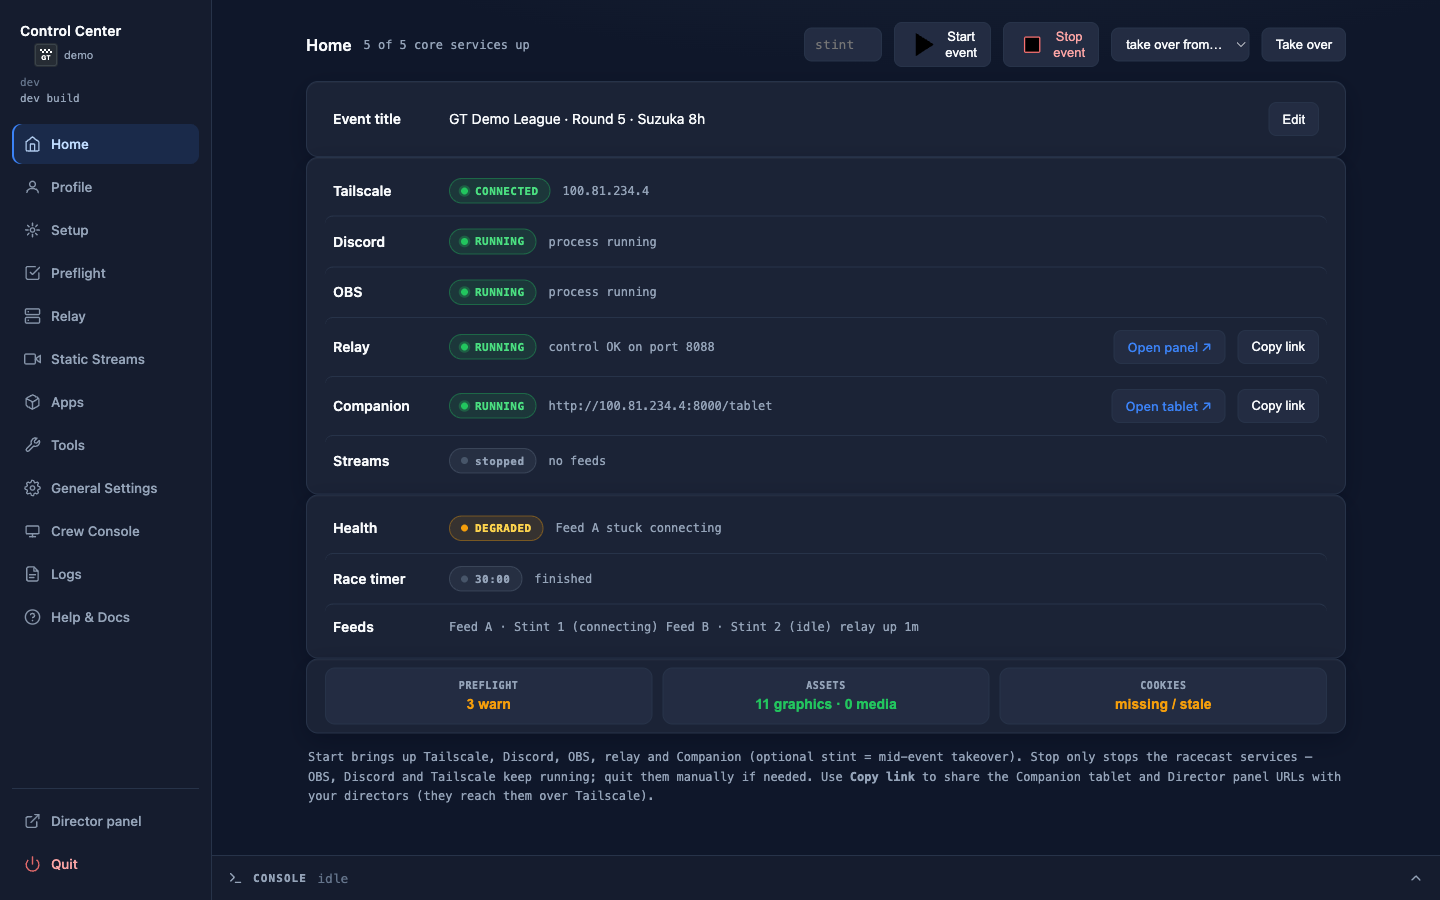
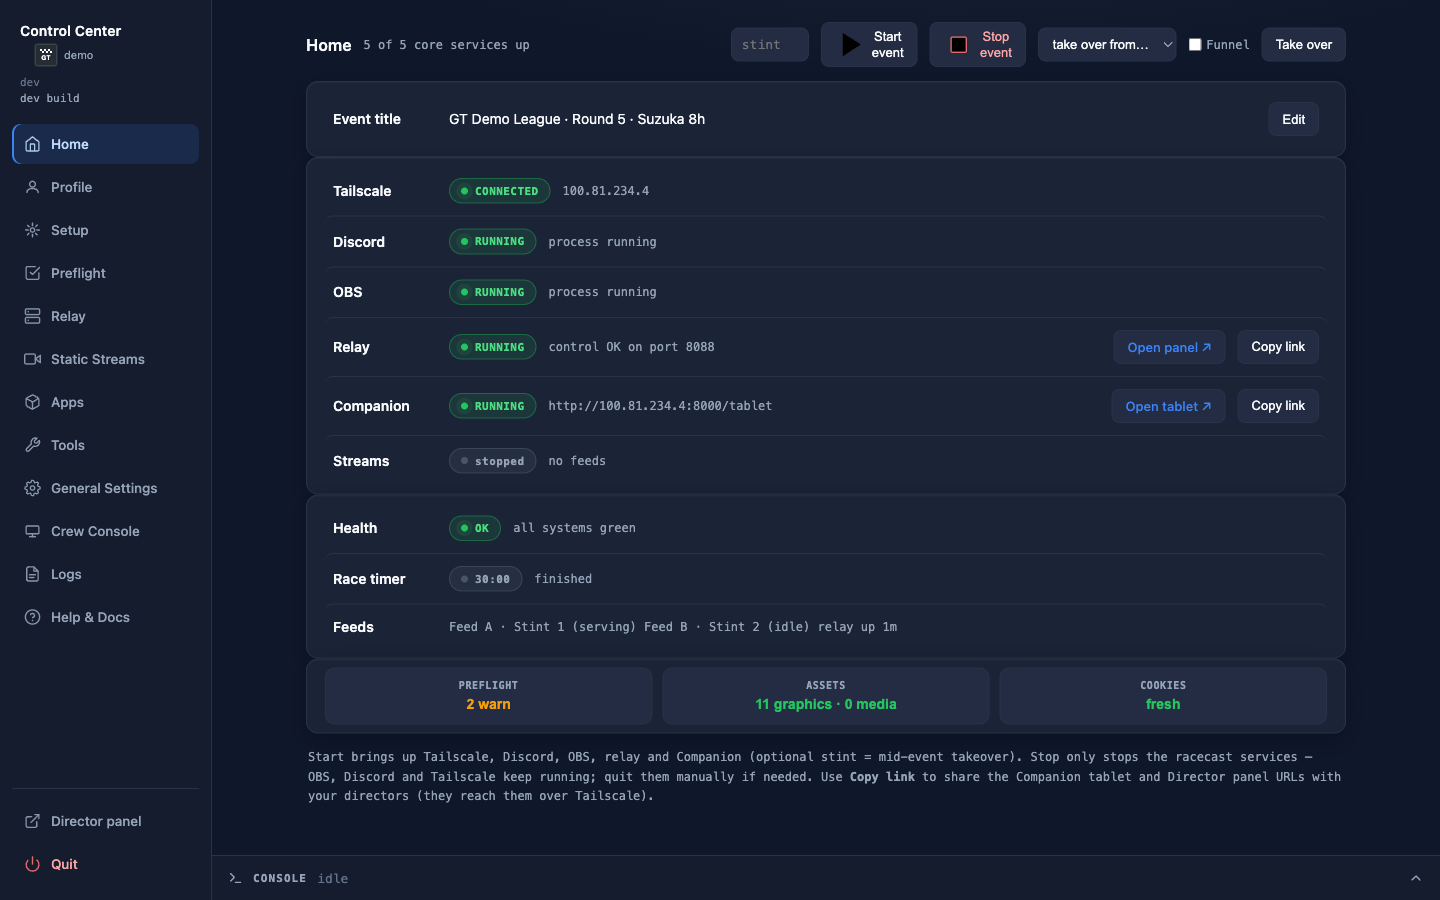
feat(ui): Funnel takeover toggle on the Control Center Home
Producer takeover over the public Tailscale Funnel was CLI-only
(`racecast event takeover <magicdns-host> --funnel`); the Control Center
only offered the tailnet path. This adds a "Funnel" checkbox to the Home
takeover control: when on, the tailnet-peer dropdown is swapped for a
free-text MagicDNS-host field (producer B is not on A's tailnet) and the
event-takeover op gains a `--funnel` flag.

The per-league CONSOLE_SECRET step-up is read server-side from B's active
profile by the CLI (_active_console_secret) — it is never collected or
sent from the browser, so the master signing key stays off the public
surface. The MagicDNS host is charset-locked by the same validator as the
tailnet IP (no argv injection).

- ui_ops: `_funnel_flag` validator + `funnel` param on event-takeover
  (argv order: host, --funnel, --stint)
- control-center: Funnel checkbox + MagicDNS host input + toggle/opTakeover JS
- test_ui_ops: --funnel argv build + host validation
- refresh cc-home.png (wiki + slides) showing the new control

diff --git a/src/ui/control-center.html b/src/ui/control-center.html
@@ -75,6 +75,9 @@
                  margin:0; color:var(--txt); text-transform:none; }
   .viewhead h3 { font-size:13px; font-weight:600; margin:0; color:var(--txt); }
   .viewhead .sub { color:var(--dim); font:12px var(--mono); }
+  .fnltog { display:flex; align-items:center; gap:5px; color:var(--dim);
+            font:12px var(--mono); cursor:pointer; user-select:none; white-space:nowrap; }
+  .fnltog input { margin:0; cursor:pointer; }
   section { background:var(--card); border:1px solid var(--line);
             border-radius:12px; padding:8px 18px;
             box-shadow:0 1px 0 rgba(255,255,255,.03) inset, 0 8px 24px rgba(2,6,23,.35); }
@@ -529,6 +532,12 @@
                   title="Pick the current producer's device (Tailscale) to take over from">
             <option value="">take over from…</option>
           </select>
+          <input id="takeover-funnel-host" type="text" hidden
+                 placeholder="producer MagicDNS host"
+                 aria-label="Producer's MagicDNS host to take over from over the public Funnel"
+                 title="A's MagicDNS host (e.g. producer-a.tailnet-xyz.ts.net) — used when you are not on the tailnet">
+          <label class="fnltog" title="Take over over the public Funnel (you are not on A's tailnet). Steps up with this league's CONSOLE_SECRET from your active profile — read locally, never sent from the browser.">
+            <input type="checkbox" id="takeover-funnel" onchange="toggleFunnelTakeover()">Funnel</label>
           <button id="takeover-btn" onclick="opTakeover()"
                   title="Take over the broadcast from the selected producer at their current stint (the stint field overrides if set)">Take over</button></div>
         <section id="home-event">
@@ -1709,11 +1718,28 @@ function opEventStart() {
   op('event-start', true, v ? {stint: v} : {});
 }
 
+// Funnel takeover: B is not on A's tailnet, so the peer dropdown is useless —
+// swap it for a free-text MagicDNS-host field. The CONSOLE_SECRET step-up is read
+// server-side from B's active profile by the CLI, never collected here.
+function toggleFunnelTakeover() {
+  const on = $('takeover-funnel').checked;
+  $('takeover-host').hidden = on;
+  $('takeover-funnel-host').hidden = !on;
+}
+
 function opTakeover() {
-  const host = $('takeover-host').value;
-  if (!host) { alertModal('Pick the producer to take over from (Tailscale device).'); return; }
+  const funnel = $('takeover-funnel').checked;
+  const host = (funnel ? $('takeover-funnel-host').value : $('takeover-host').value).trim();
+  if (!host) {
+    alertModal(funnel
+      ? "Enter producer A's MagicDNS host to take over over the Funnel."
+      : 'Pick the producer to take over from (Tailscale device).');
+    return;
+  }
   const v = $('stint').value.trim();
-  const params = v ? {ip: host, stint: v} : {ip: host};
+  const params = {ip: host};
+  if (funnel) params.funnel = true;
+  if (v) params.stint = v;
   op('event-takeover', true, params);
 }
 

diff --git a/tests/test_ui_ops.py b/tests/test_ui_ops.py
@@ -189,6 +189,27 @@ def t_build_argv_event_takeover():
             pass
 
 
+def t_build_argv_event_takeover_funnel():
+    # --funnel flag rides through to the CLI (the per-league CONSOLE_SECRET is
+    # read server-side from the active profile, never sent from the UI).
+    assert ui_ops.build_argv("event-takeover", {"ip": "host-a.tail.ts.net", "funnel": True}) == \
+        ["event", "takeover", "host-a.tail.ts.net", "--funnel"]
+    # funnel + stint: host positional first, then the two flags
+    assert ui_ops.build_argv(
+        "event-takeover", {"ip": "host-a.tail.ts.net", "funnel": True, "stint": "6"}) == \
+        ["event", "takeover", "host-a.tail.ts.net", "--funnel", "--stint", "6"]
+    # falsy funnel = tailnet takeover, no flag
+    assert ui_ops.build_argv("event-takeover", {"ip": "100.64.1.2", "funnel": False}) == \
+        ["event", "takeover", "100.64.1.2"]
+    # the MagicDNS host is charset-locked by the same validator as the tailnet IP
+    for bad in ("a.b; rm -rf /", "host a", "$(x)"):
+        try:
+            ui_ops.build_argv("event-takeover", {"ip": bad, "funnel": True})
+            raise AssertionError(f"invalid funnel host accepted: {bad}")
+        except ValueError:
+            pass
+
+
 def t_build_argv_update_flag():
     assert ui_ops.build_argv("install-tools", {"update": True}) == \
         ["install-tools", "--yes", "--update"]

diff --git a/src/ui/ui_ops.py b/src/ui/ui_ops.py
@@ -79,6 +79,14 @@ def _update_flag(value):
     return ["--update"] if value else []
 
 
+def _funnel_flag(value):
+    """`--funnel` switches `event takeover` to pull A's handover state over the
+    public Tailscale Funnel (host is A's MagicDNS name) instead of the tailnet IP.
+    The per-league CONSOLE_SECRET it steps up with is read server-side from the
+    active profile by the CLI — it is never collected or sent from the UI."""
+    return ["--funnel"] if value else []
+
+
 # The UI's `update` op only ever installs a PREVIEW build by tag (a regular
 # update sends no tag and goes to the latest release). Restricting the allowlist
 # to preview-* means a crafted /api/op/update {tag: "v1.0.0"} cannot silently
@@ -113,7 +121,8 @@ PARAMS = {
     "cookies": {"browser": _browser_arg},
     "cookies-twitch": {"browser": _browser_arg},
     "event-start": {"stint": _stint_arg},
-    "event-takeover": {"ip": _ip_arg, "stint": _stint_arg},   # order: ip (positional) then --stint
+    # order: ip (positional) then --funnel then --stint
+    "event-takeover": {"ip": _ip_arg, "funnel": _funnel_flag, "stint": _stint_arg},
     "install-tools": {"update": _update_flag},
     "install-apps": {"update": _update_flag},
     "update": {"tag": _tag_arg},